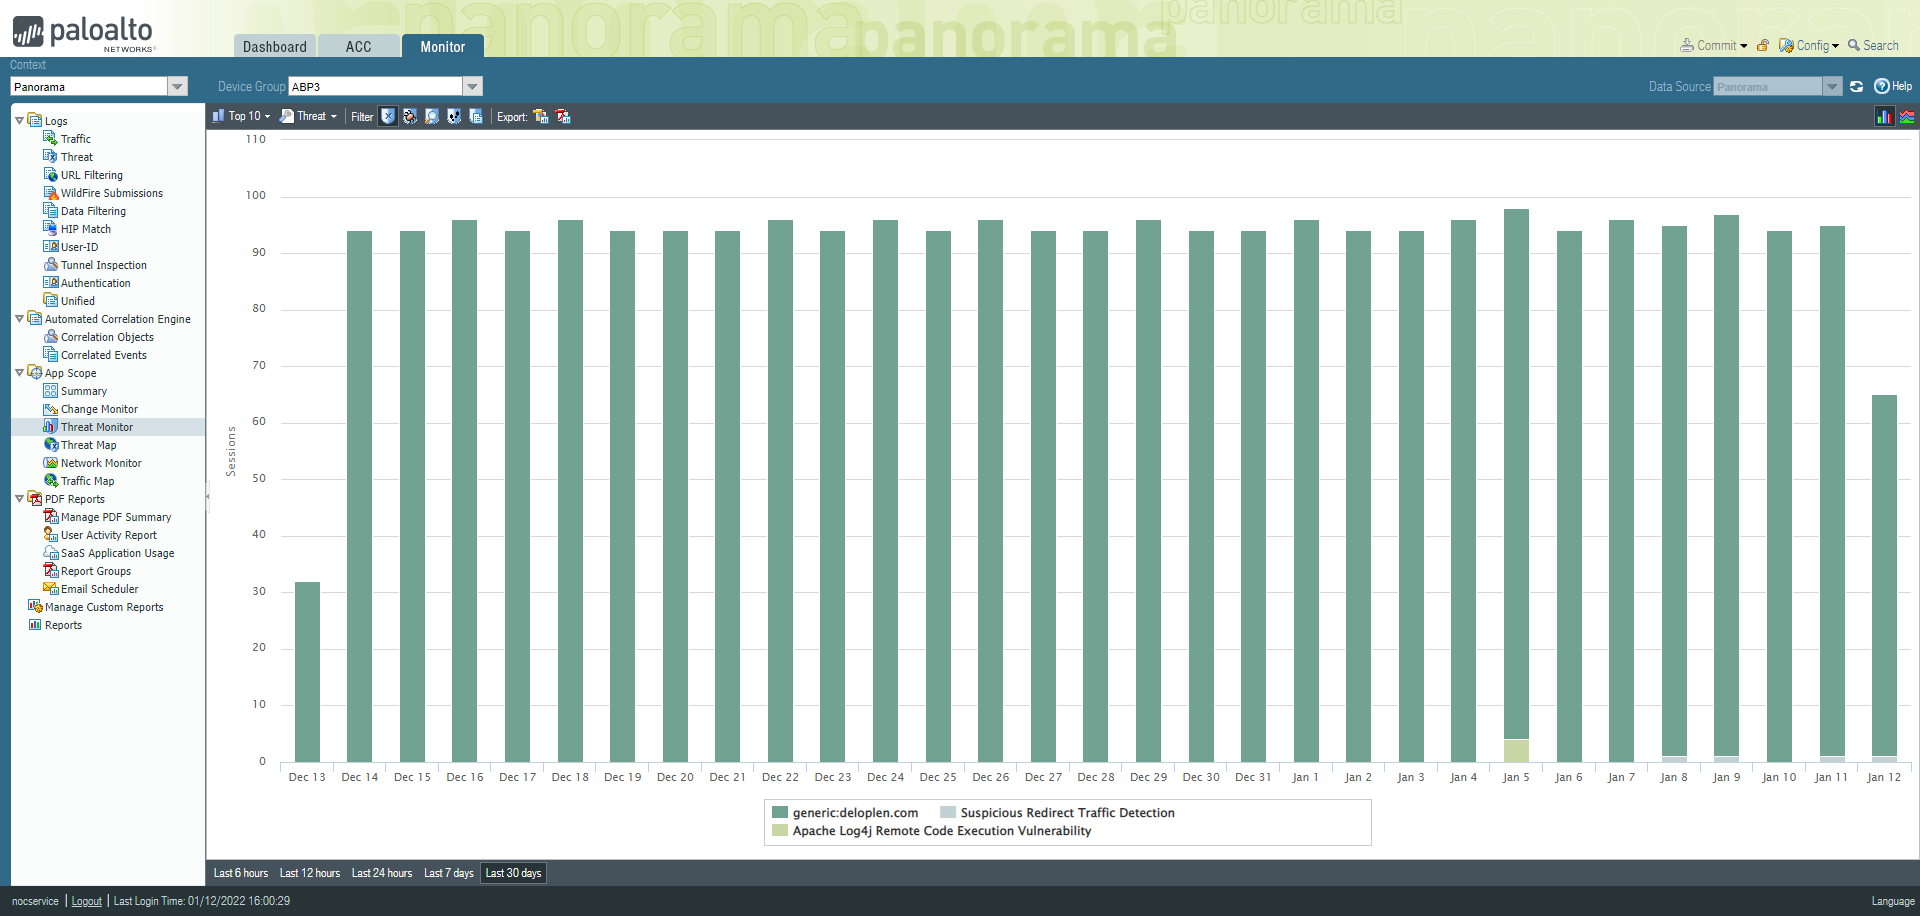
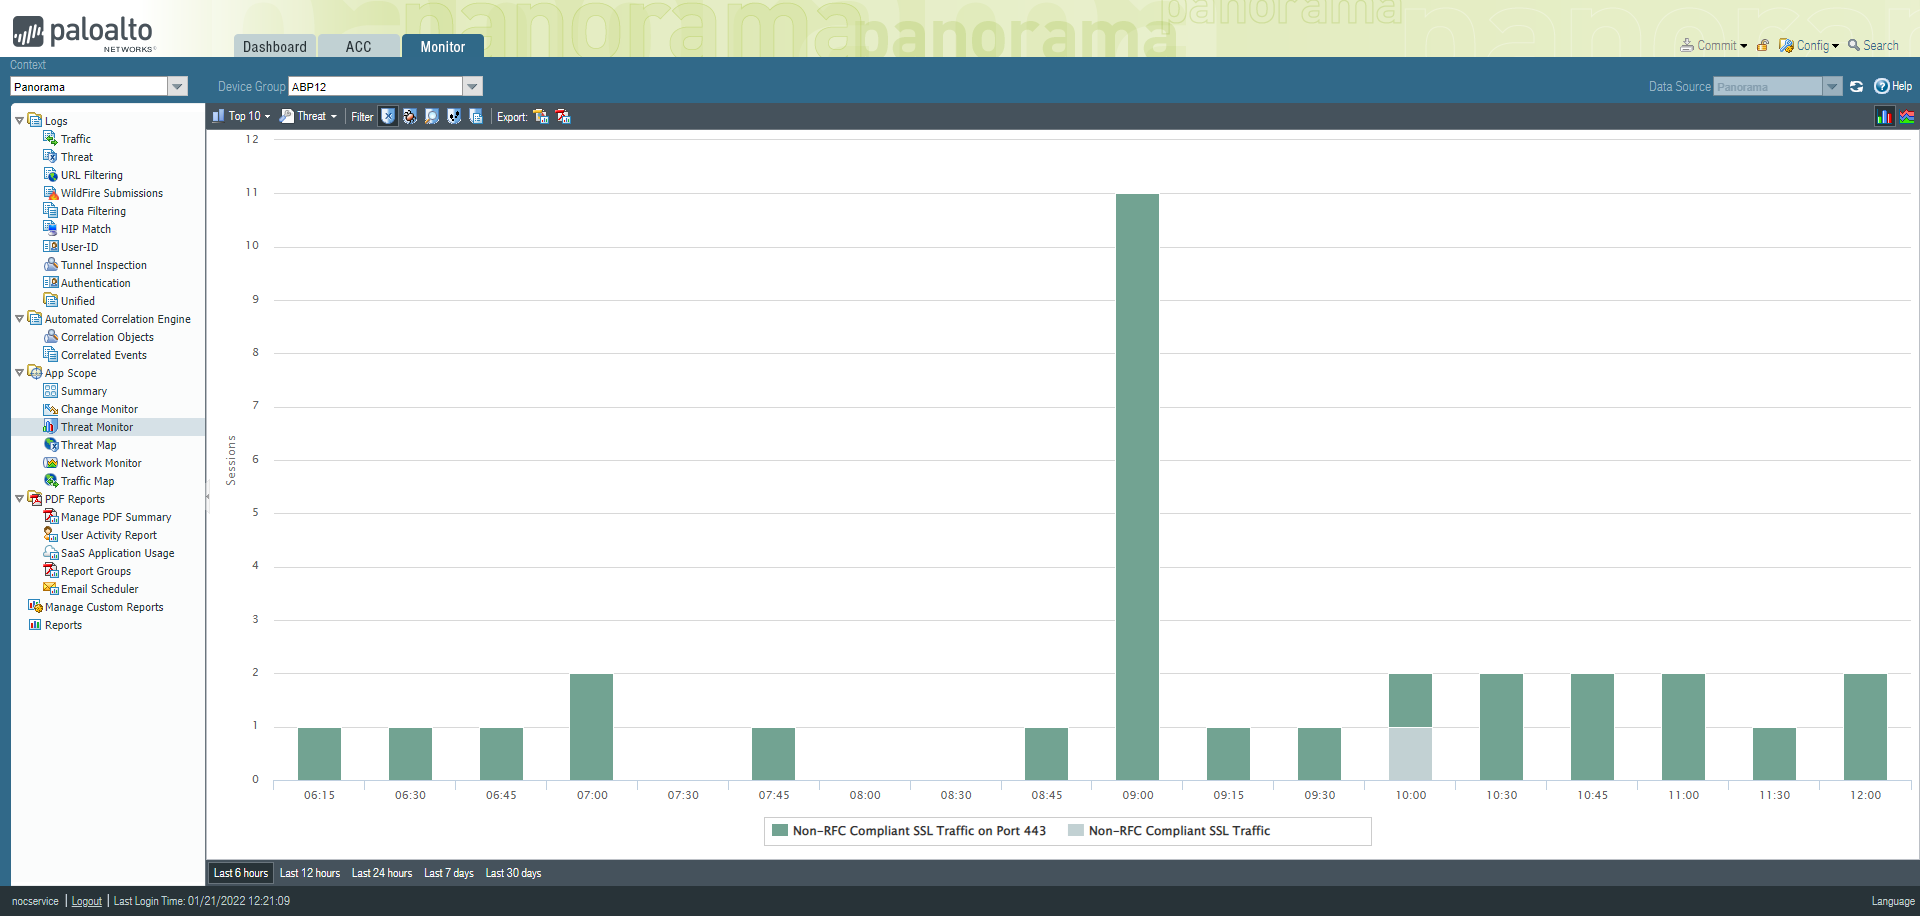
update sharp and try to  crop pic

Changed region(s): [[0.125, 0.214, 1.0, 0.917], [0.0938, 0.917, 0.1562, 1.0], [0.25, 0.917, 0.2812, 0.9782]]

diff --git a/getstart.js b/getstart.js
@@ -5,9 +5,11 @@ require('chromedriver');
 require('html2canvas');
 
 
-const { Builder, By, Key, until } = require('selenium-webdriver');
+const { Builder, By, Key, until,WebElement } = require('selenium-webdriver');
 const { createCanvas, loadImage,toDataURL,html2canvas } = require('html2canvas');
 const { jquery,$} = require('jquery');
+const sharp = require('sharp');
+const console = require('console');
 // const {screen}  = require('screen.js');
 
 
@@ -29,34 +31,52 @@ const { jquery,$} = require('jquery');
         await driver.findElement(By.id("passwd")).sendKeys("NOCpwd2020+");
         await driver.findElement(By.id("submit")).click();
         await driver.wait(until.elementLocated(By.id("monitor_img")), 70000);
-        //await driver.findElement(By.xpath("/html/body/div[1]/div/div/table/tbody/tr[1]/td/table/tbody/tr/td[2]/table/tbody/tr/td[4]")).click();
-        //await driver.findElement(By.xpath("/html/body/div[3]/div/div[2]/div[2]/div/div/div[1]/div[2]/div[1]/div/div/div/div/div/div/ul/div/li[4]/ul/li[3]/div/a/span")).click();
+        
         await driver.sleep(5000);
     //    await driver.findElement(By.id('monitor')).click();
     await driver.findElement(By.xpath("/html/body/div[1]/div/div/table/tbody/tr[1]/td/table/tbody/tr/td[2]/table/tbody/tr/td[4]")).click();
         
-        // await driver.wait(until.elementsLocated(By.id("highcharts-3")),100000).isEnabled();
-     await driver.get("https://172.23.31.1/?#monitor::ABP3::monitor/app-scope/threat-monitor");
-        // await driver.findElement(By.id("ext-gen218")).click();
-        // await driver.wait(until.elementLocated(By.id("chart_container_parent")),70000);
+  
+     await driver.get("https://172.23.31.1/?#monitor::ABP12::monitor/app-scope/threat-monitor");
    
-       
-      
-        // await driver.wait(until.elementsLocated(By.id("ext-gen218")),70000);
-        // await driver.sleep(5000);
+        await driver.sleep(5000);
      
 
     } finally {
         
-        // screen.screenchart(); fix screen
-    // const findEl = await driver.findElement(By.id("chart_container"));
-    //     await  driver.takeScreenshot(findEl).then(
-    //         function(image) {
-    //             require('fs').writeFileSync('chart.png', image, 'base64');
-    //         }
-    //     );
    
+        await  driver.takeScreenshot().then(
+            function(image) {
+                require('fs').writeFileSync('chart.png', image, 'base64');
+            }
+        );
 
+    
+var _left = 0;
+var _top  = 0;
+var _width = 0;
+var _height = 0;
+
+        _left = driver.findElement(By.xpath("/html/body/div[2]/div/div[2]/div[2]/div/div/div[2]/div/div/div/div[2]/div[1]/div/svg/rect")).getRect().x;
+  
+        _top = driver.findElement(By.xpath("/html/body/div[2]/div/div[2]/div[2]/div/div/div[2]/div/div/div/div[2]/div[1]/div/svg/rect")).getRect().y;
+   
+        _width = driver.findElement(By.xpath("/html/body/div[2]/div/div[2]/div[2]/div/div/div[2]/div/div/div/div[2]/div[1]/div/svg/rect")).getRect().width;
+               
+        _height = driver.findElement(By.xpath("/html/body/div[2]/div/div[2]/div[2]/div/div/div[2]/div/div/div/div[2]/div[1]/div/svg/rect")).getRect().height;
+
+        console.log();
+        await driver.sleep(4000);
+
+        sharp('chart.png').extract({left:parseInt(_left),top:parseInt(_top),width:parseInt(_width),height:parseInt(_height)}).toFile('chartcrop.png');
+        // sharp('chart.png').extract({ left: parseInt(_left), top: parseInt(_top), width: parseInt(_width), height: parseInt(_height) })
+        // .toFile('image_crop.png').then(function (new_file_info) {
+        //     console.log("Image cropped and saved");
+        // })
+        // .catch(function (err) {
+        //     if (err) console.log(err);
+        // });
+        
     }   
 })
 
